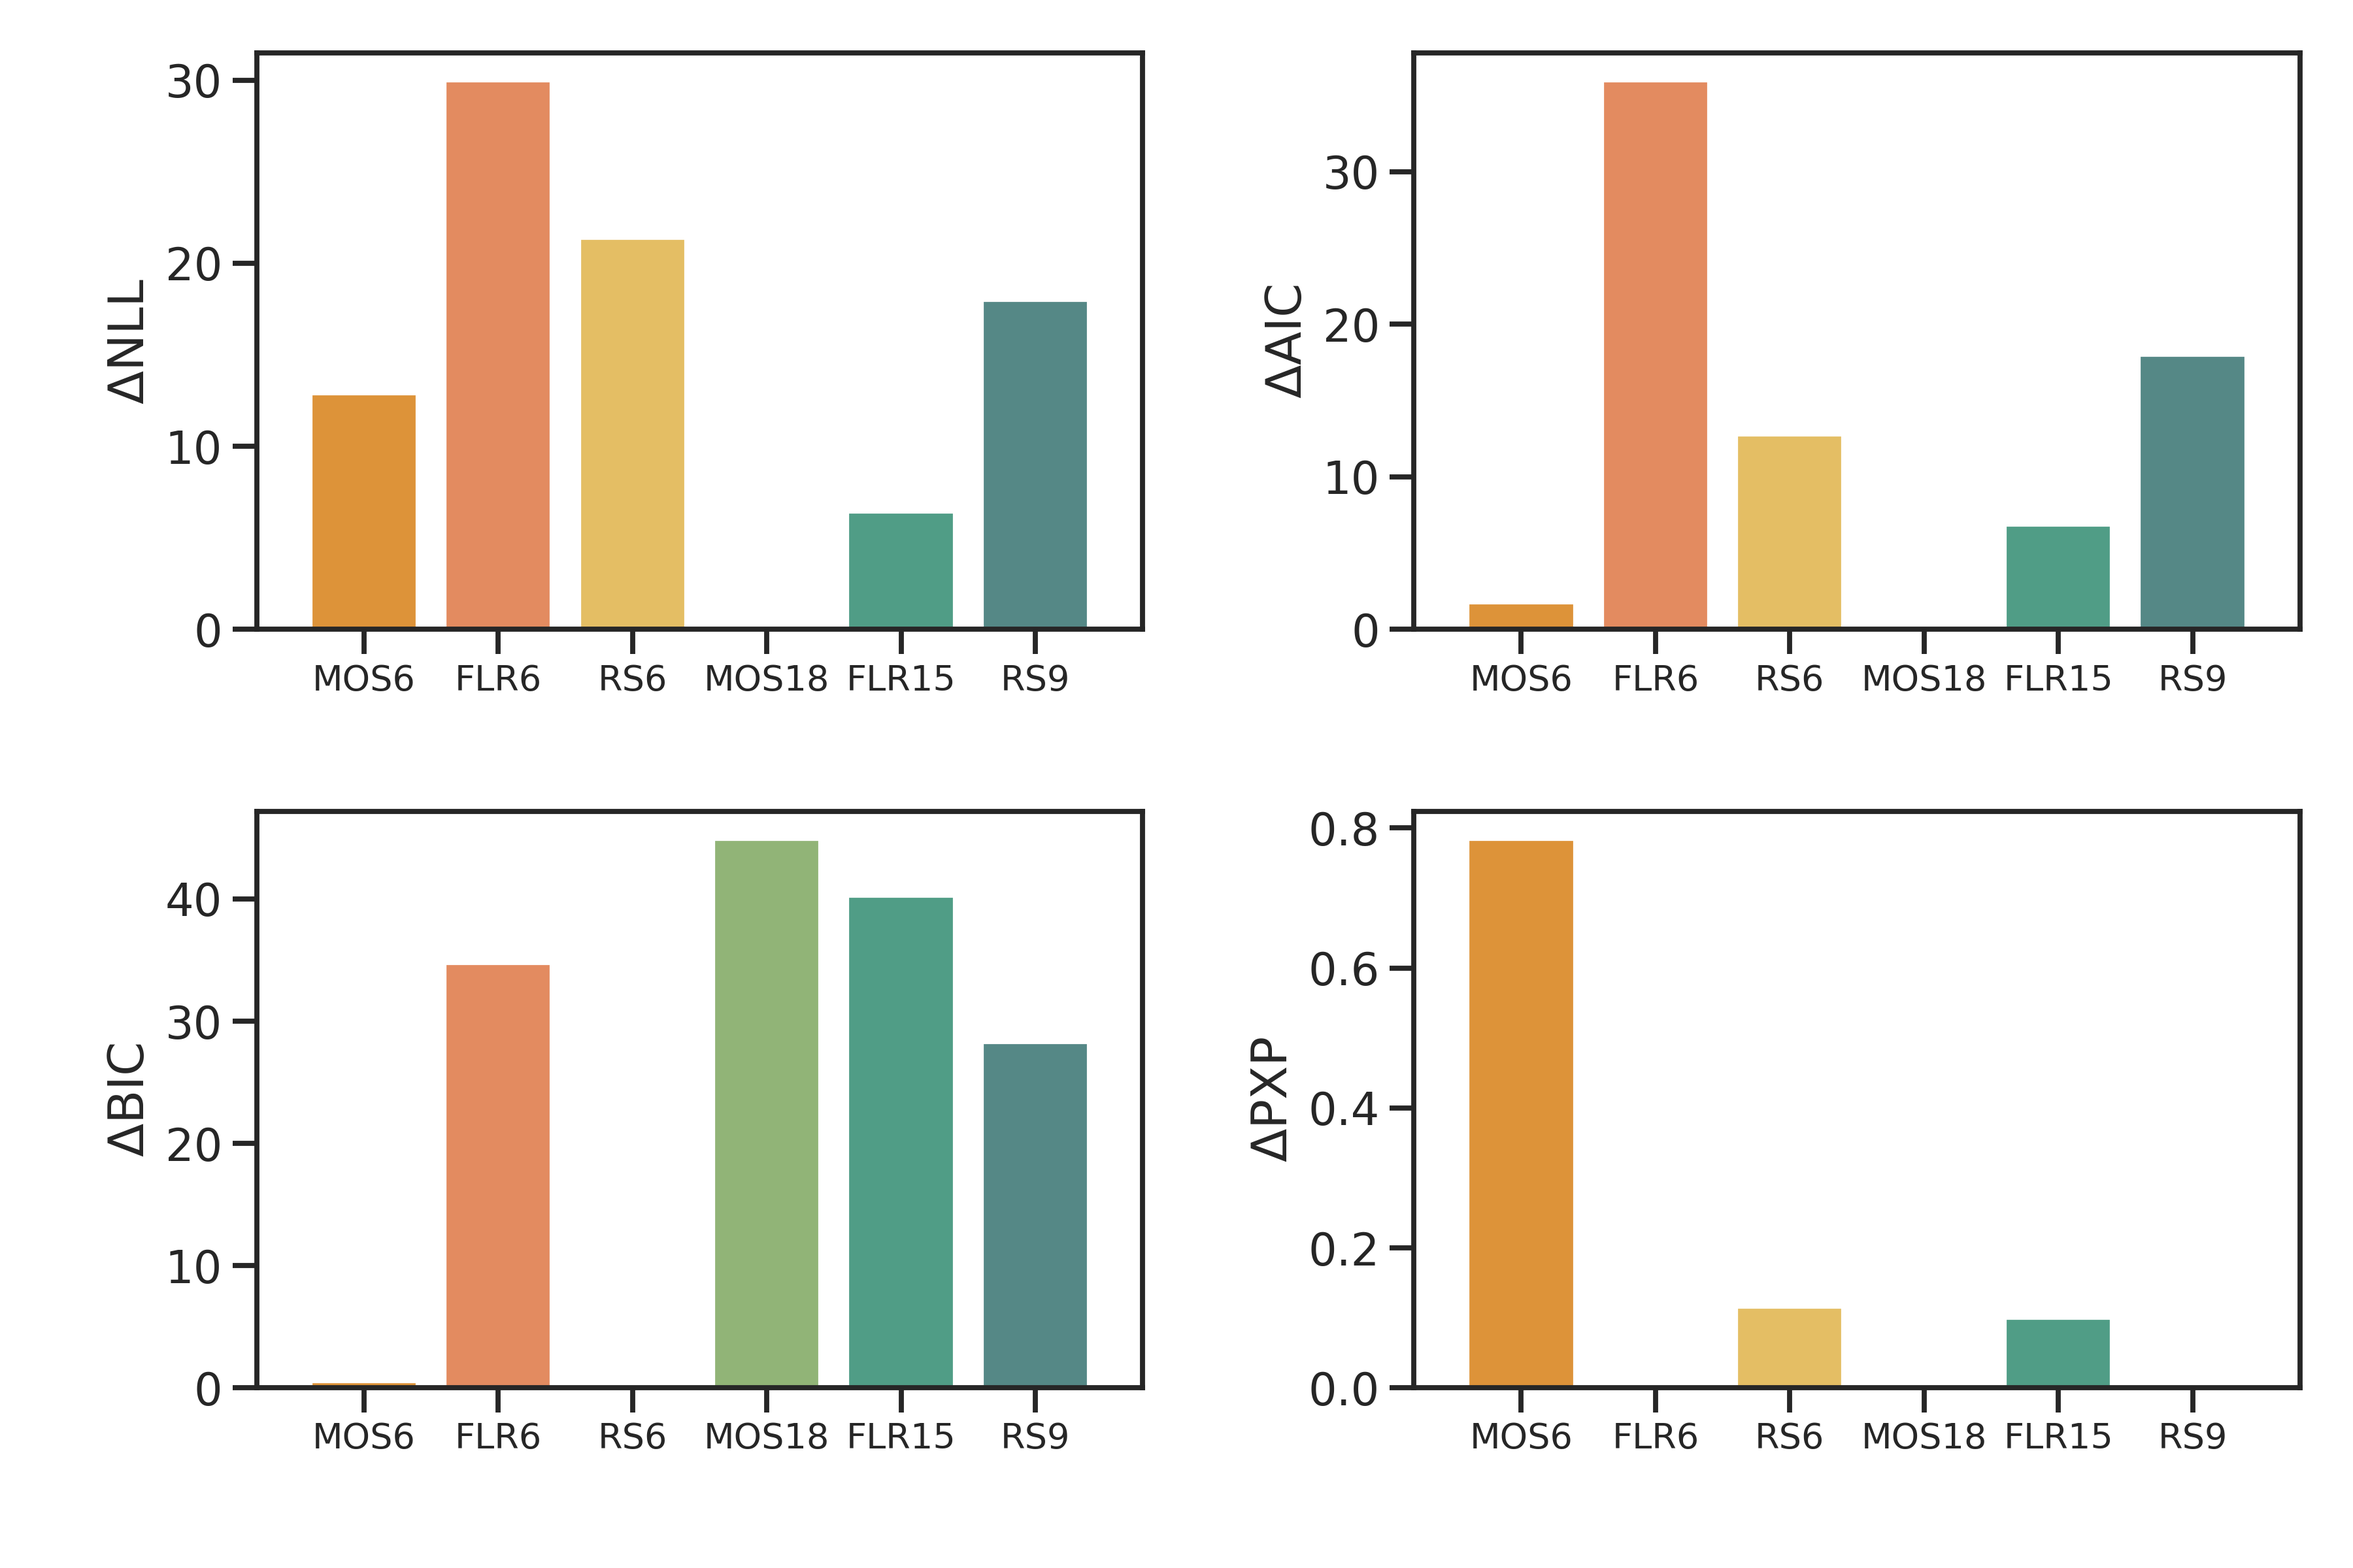
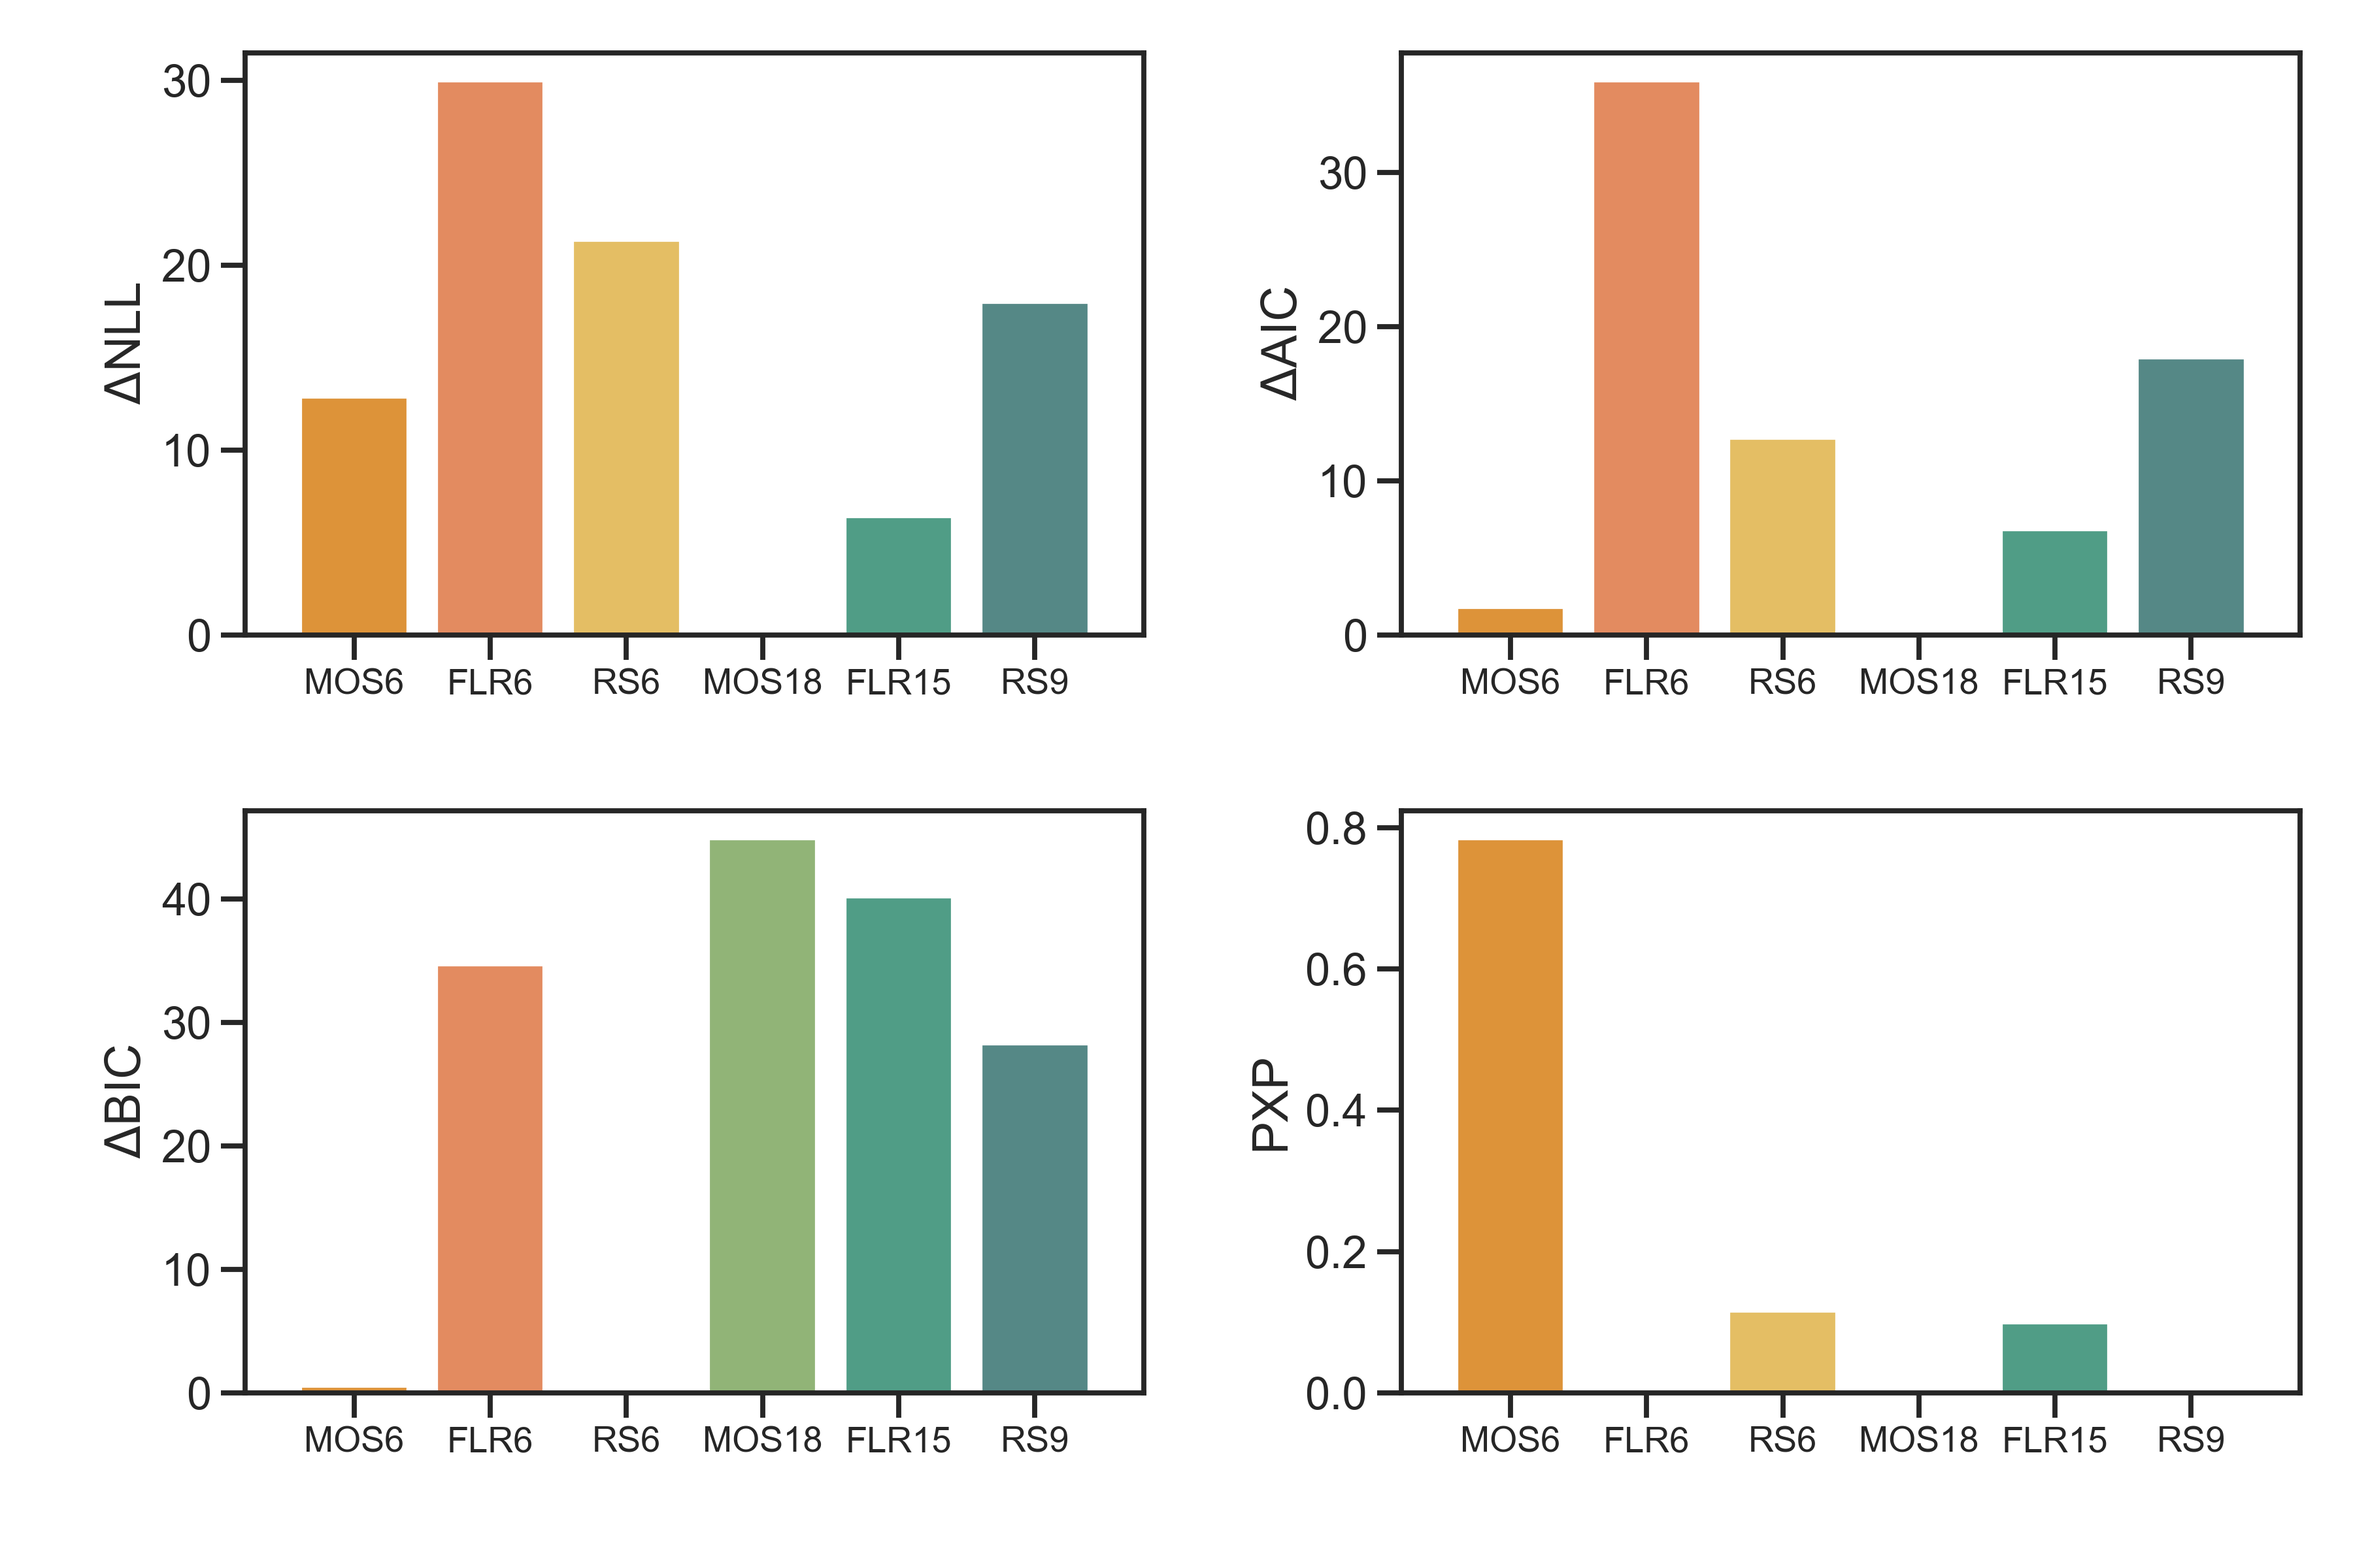
some update

diff --git a/m3_visualize.py b/m3_visualize.py
@@ -71,10 +71,10 @@ def quantTable(models= ['MOS', 'FLR', 'RP'],
         ax.set_xticks(xx)
         ax.set_xticklabels(ticks, rotation=0, fontsize=13)
         ax.set_xlim([0-.8, len(models)-1+.8])
-        ax.set_ylabel('\n'+r'$\Delta$'+f'{c}')
+        ax.set_ylabel('\n'+r'$\Delta$'+f'{c}') if i < 3 else ax.set_ylabel(f'\n{c}')
         ax.set_xlabel(' ')
     plt.tight_layout()
-    plt.savefig(f'{path}/figures/quant.png', dpi=300)
+    plt.savefig(f'{path}/figures/quant.pdf', dpi=300)
 
 
 # ---------- Model-based analysis ----------- #
